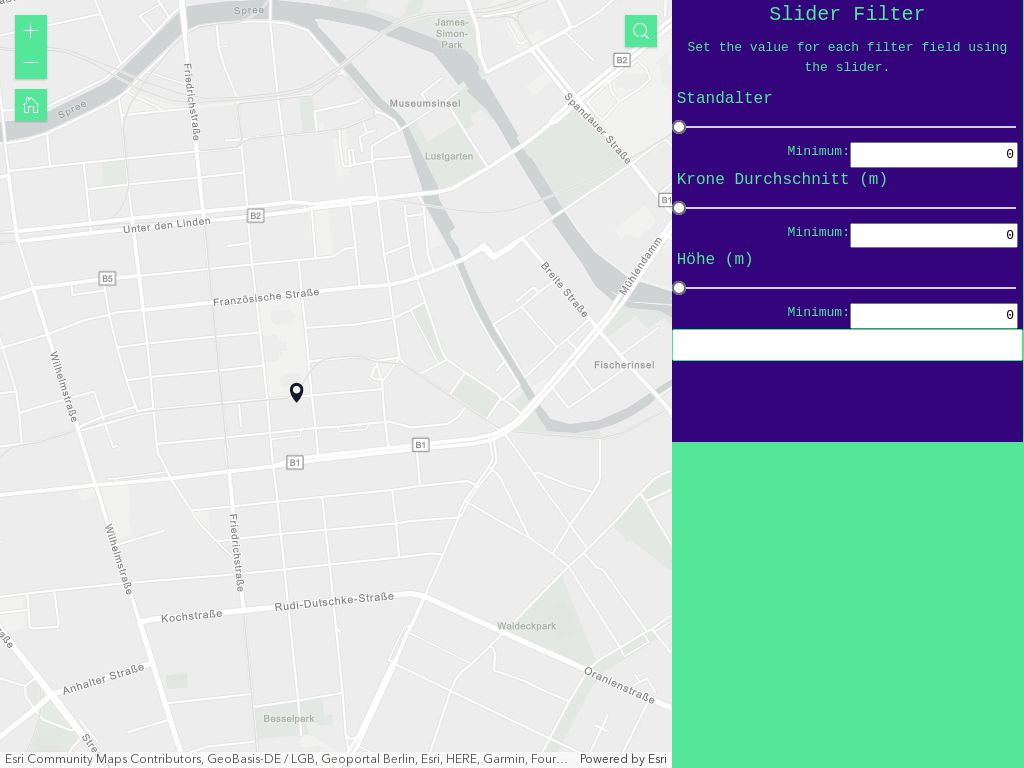
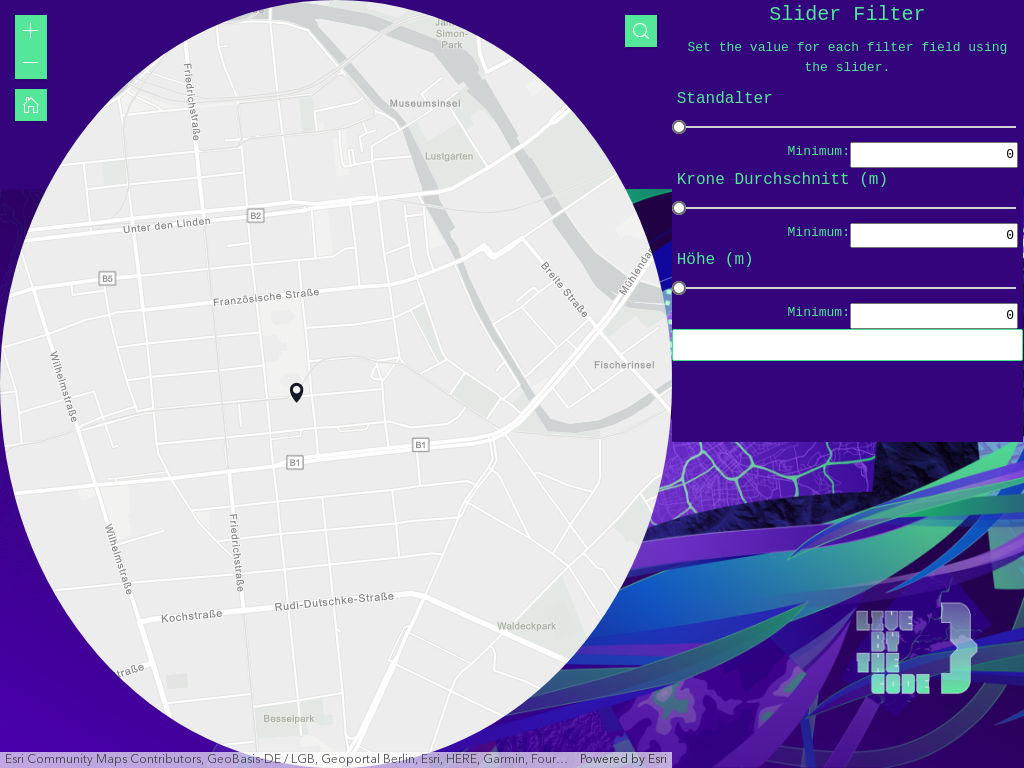
Deploying to gh-pages from @ EsriDevEvents/arcgis-experience-builder-customizing-and-extending-ds-europe-2023@181d0c8eacd4f50de2d1e19a4a5123b8b07adc31 🚀

diff --git a/cdn/1/themes/dev-summit/style.js b/cdn/1/themes/dev-summit/style.js
@@ -37,4 +37,4 @@ __webpack_require__.r(__webpack_exports__);
 		}
 	};
 });
[2 lines of base64/hex data omitted]

diff --git a/cdn/1/themes/dev-summit/style.css b/cdn/1/themes/dev-summit/style.css
@@ -5,5 +5,19 @@
 /*!**************************************************************************************************************************************************************************************************************************************************************************!*\
   !*** css ./node_modules/css-loader/dist/cjs.js??ruleSet[1].rules[2].use[1]!./node_modules/resolve-url-loader/index.js??ruleSet[1].rules[2].use[2]!./node_modules/sass-loader/dist/cjs.js??ruleSet[1].rules[2].use[3]!./your-extensions/themes/dev-summit/style.scss (1) ***!
   \**************************************************************************************************************************************************************************************************************************************************************************/
+body {
+  background-color: #34047d; }
+
+.widget-map canvas {
+  border-radius: 50%; }
+
+#app {
+  background-image: url("./assets/background.png");
+  background-size: 100%;
+  background-repeat: no-repeat;
+  background-position-y: bottom;
+  background-position-x: left;
+  overflow: hidden; }
 
 
[1 lines of base64/hex data omitted]

diff --git a/cdn/1/themes/dev-summit/style-rtl.css b/cdn/1/themes/dev-summit/style-rtl.css
@@ -5,5 +5,17 @@
 /*!**************************************************************************************************************************************************************************************************************************************************************************!*\
   !*** css ./node_modules/css-loader/dist/cjs.js??ruleSet[1].rules[2].use[1]!./node_modules/resolve-url-loader/index.js??ruleSet[1].rules[2].use[2]!./node_modules/sass-loader/dist/cjs.js??ruleSet[1].rules[2].use[3]!./your-extensions/themes/dev-summit/style.scss (1) ***!
   \**************************************************************************************************************************************************************************************************************************************************************************/
+body {
+  background-color: #34047d; }
 
+.widget-map canvas {
+  border-radius: 50%; }
+
+#app {
+  background-image: url("./assets/background.png");
+  background-size: 100%;
+  background-repeat: no-repeat;
+  background-position-y: bottom;
+  background-position-x: right;
+  overflow: hidden; }
 
